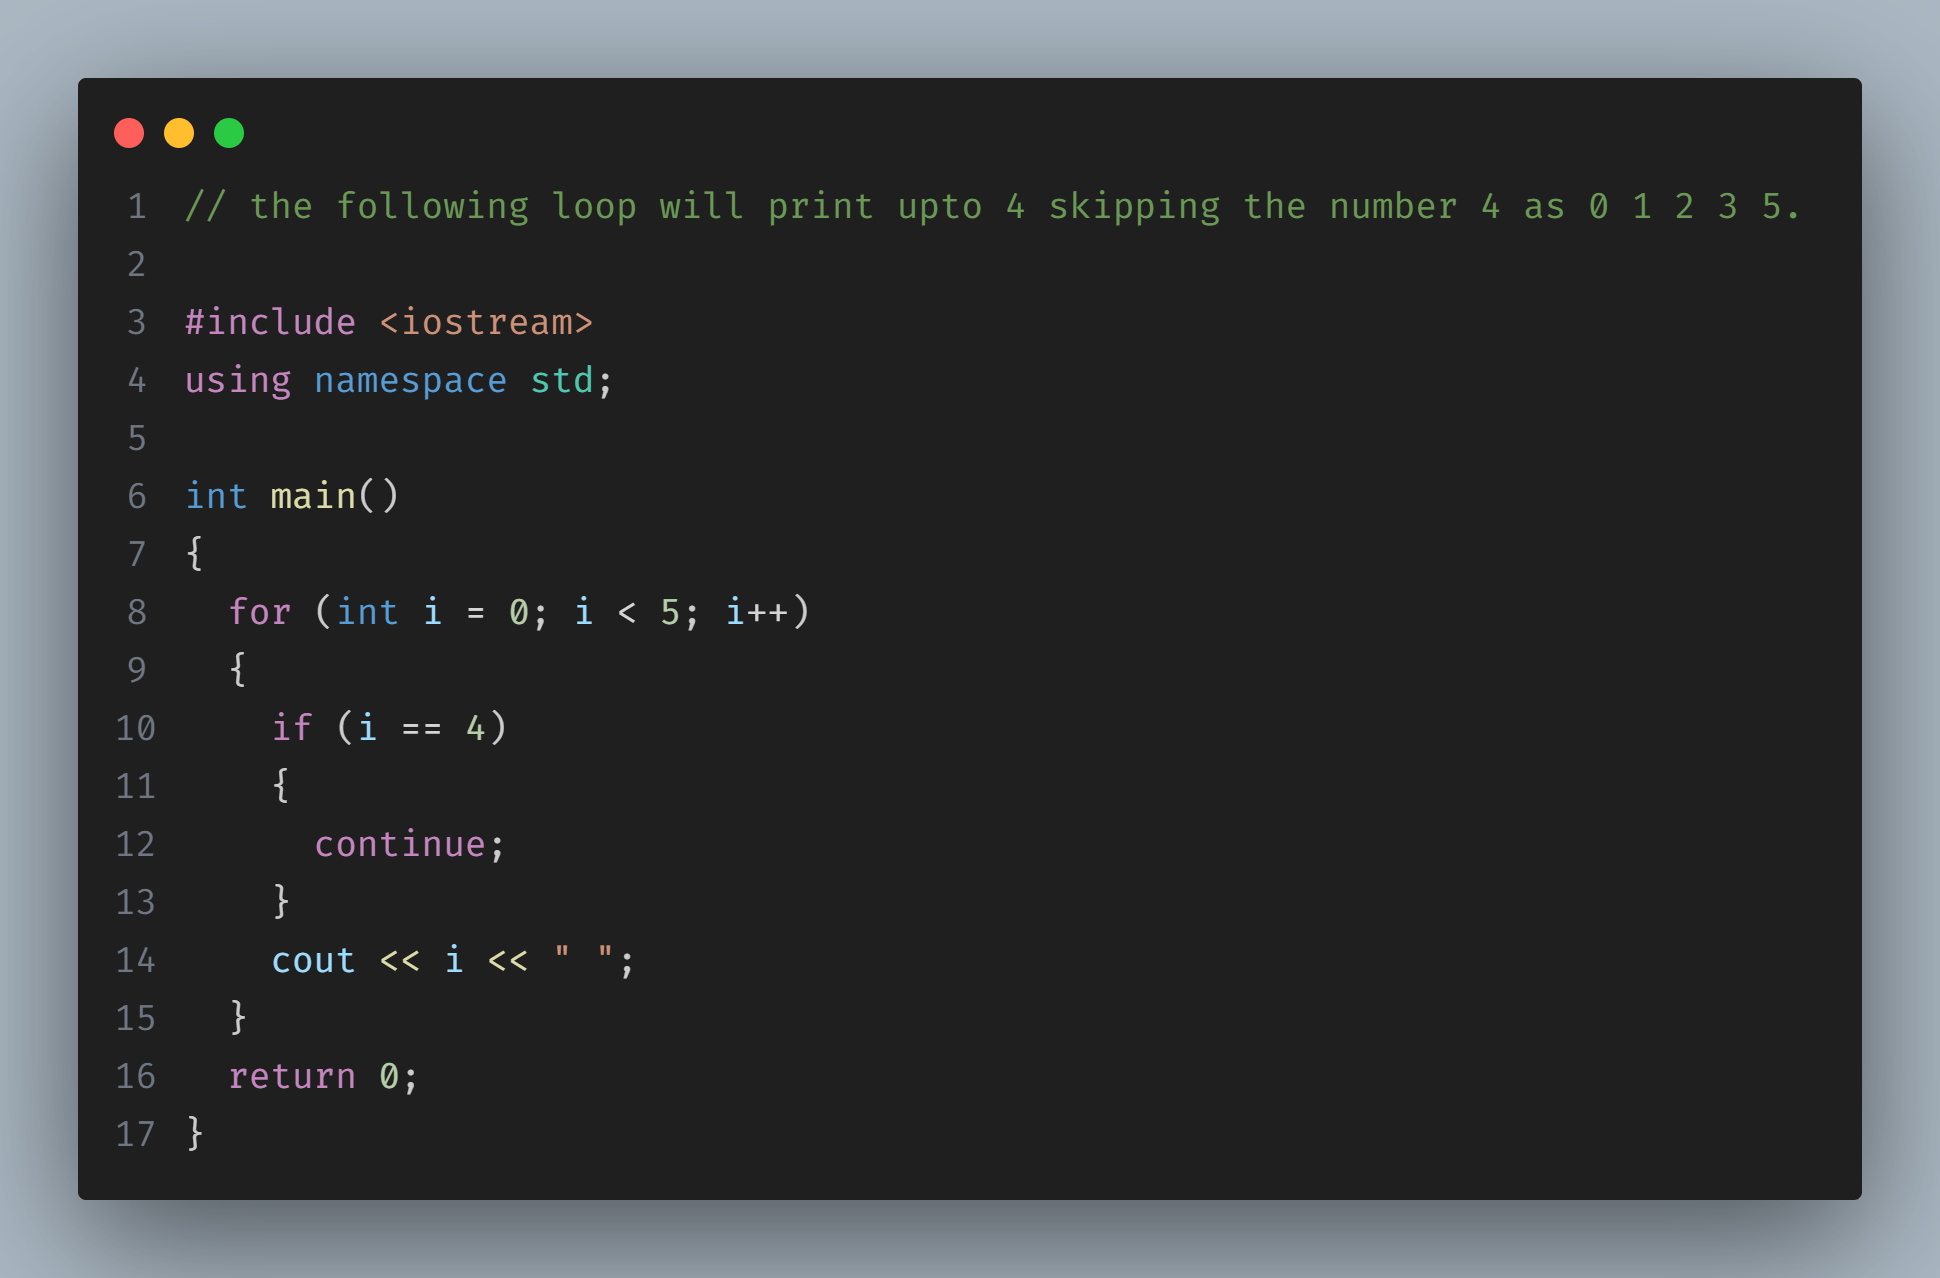
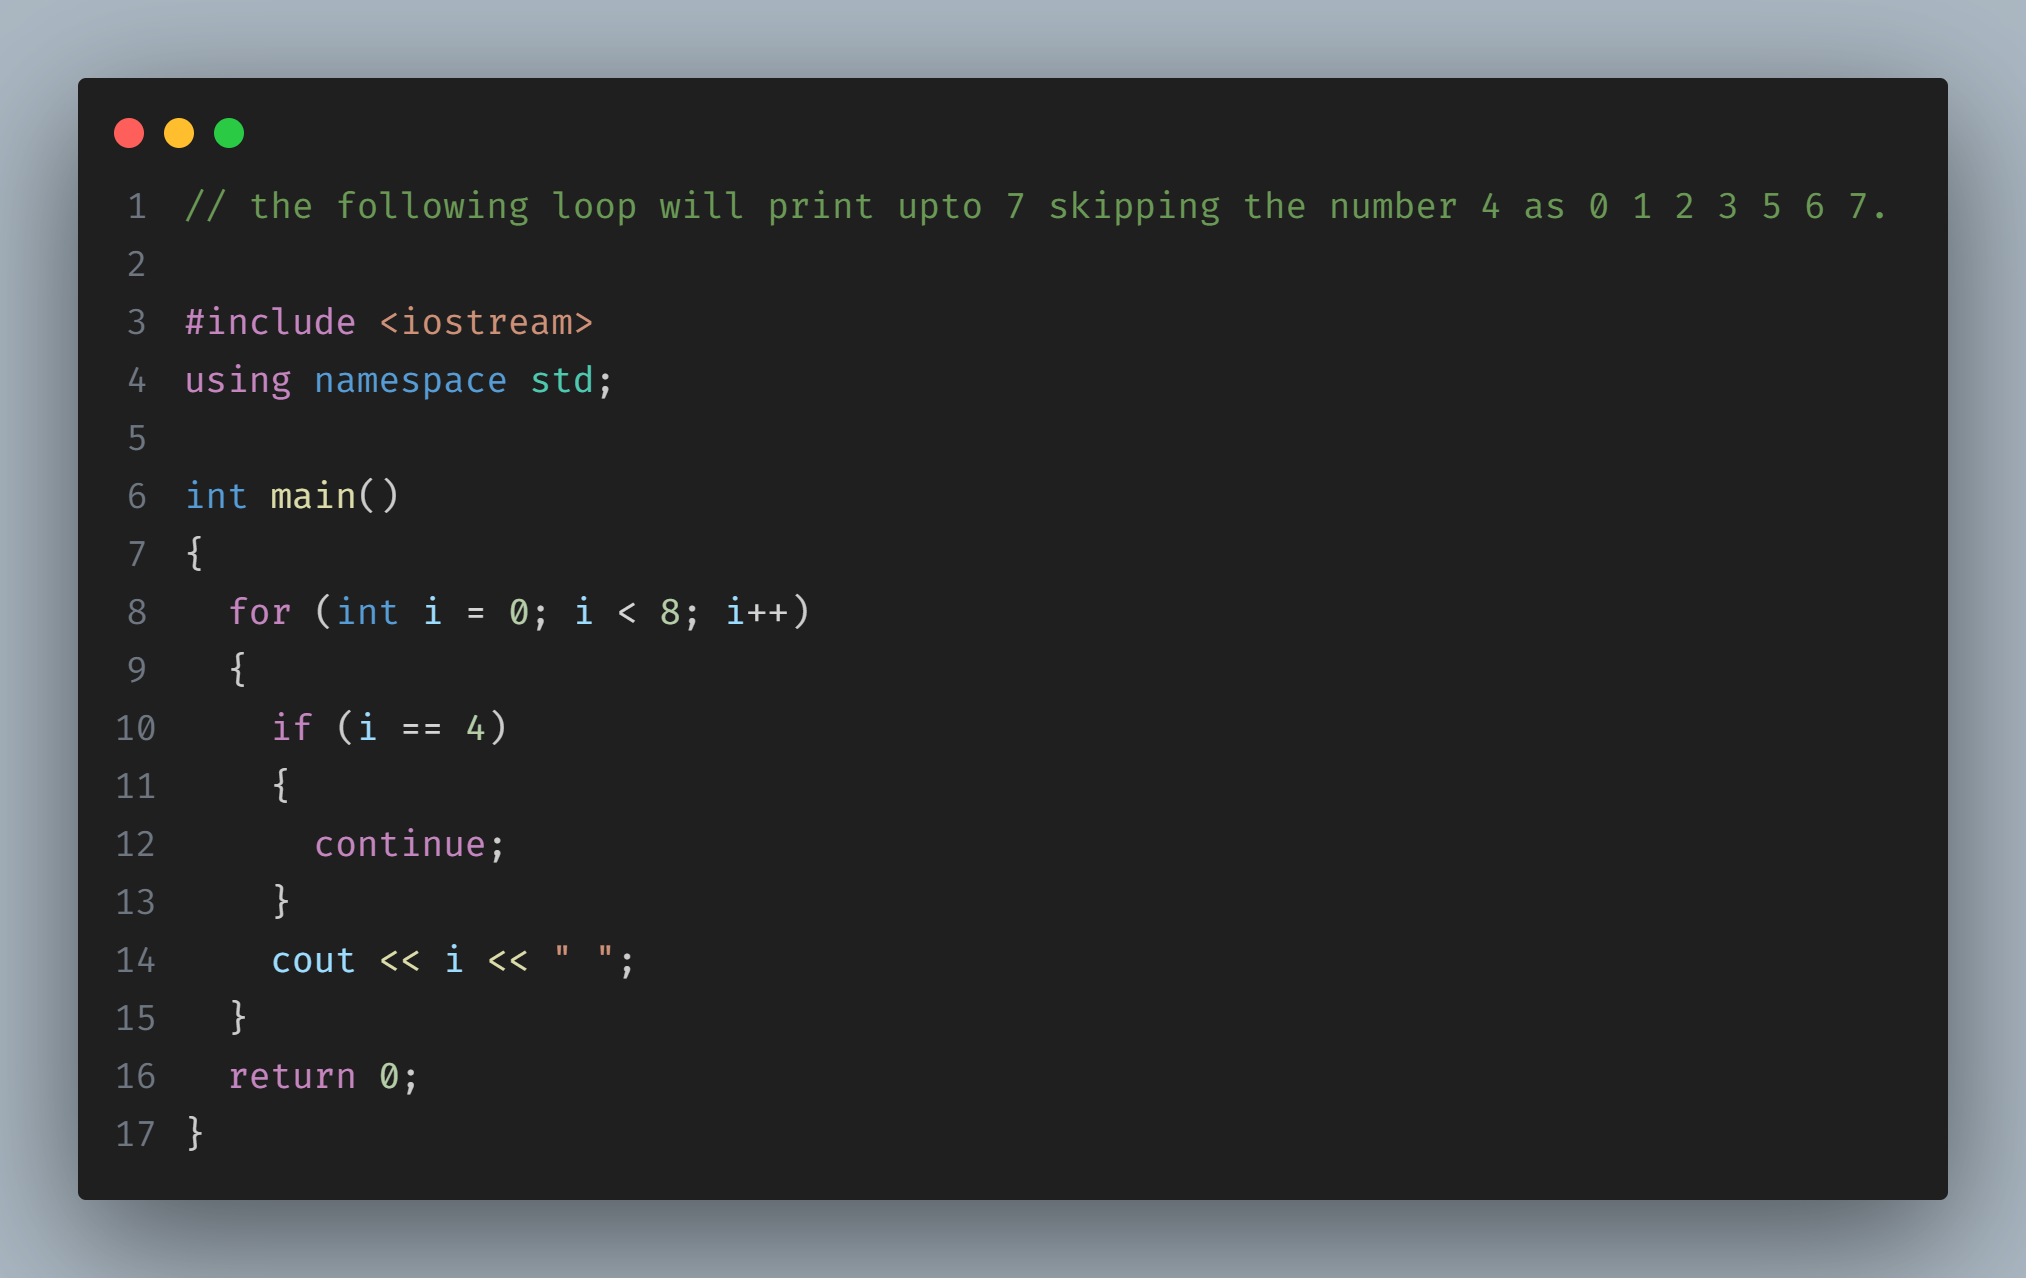
break and continue🧩

diff --git a/Day_18_Break_and_Continue/continue.cpp b/Day_18_Break_and_Continue/continue.cpp
@@ -1,11 +1,11 @@
-// the following loop will print upto 4 skipping the number 4 as 0 1 2 3 5.
+// the following loop will print upto 7 skipping the number 4 as 0 1 2 3 5 6 7.
 
 #include <iostream>
 using namespace std;
 
 int main()
 {
-  for (int i = 0; i < 5; i++)
+  for (int i = 0; i < 8; i++)
   {
     if (i == 4)
     {
